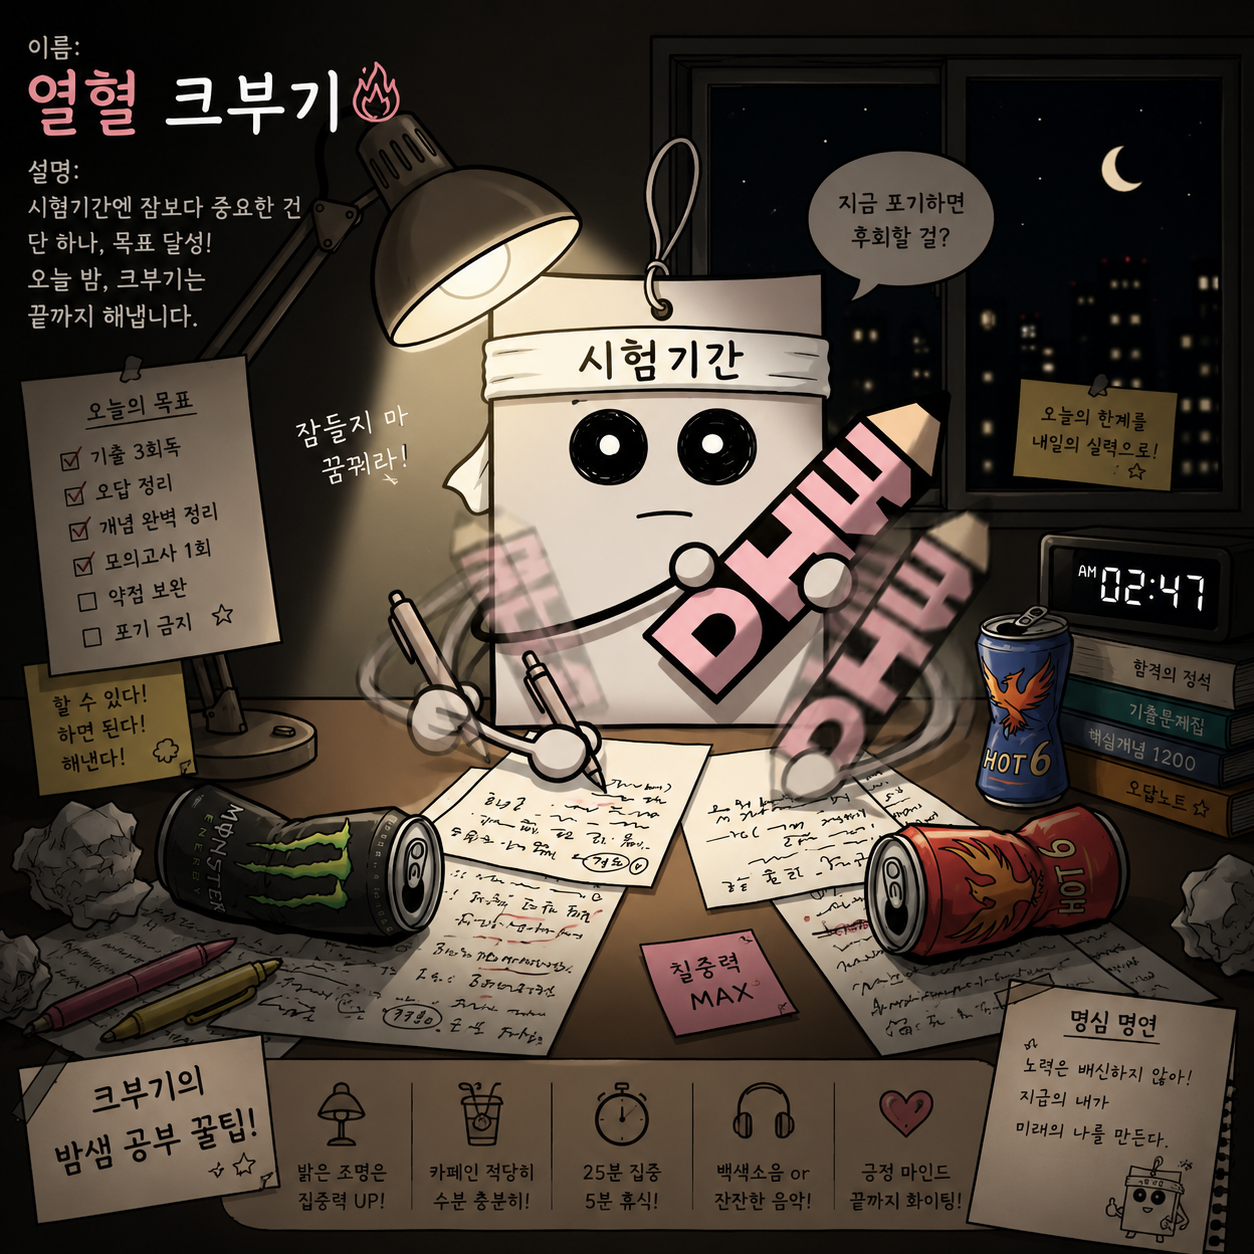
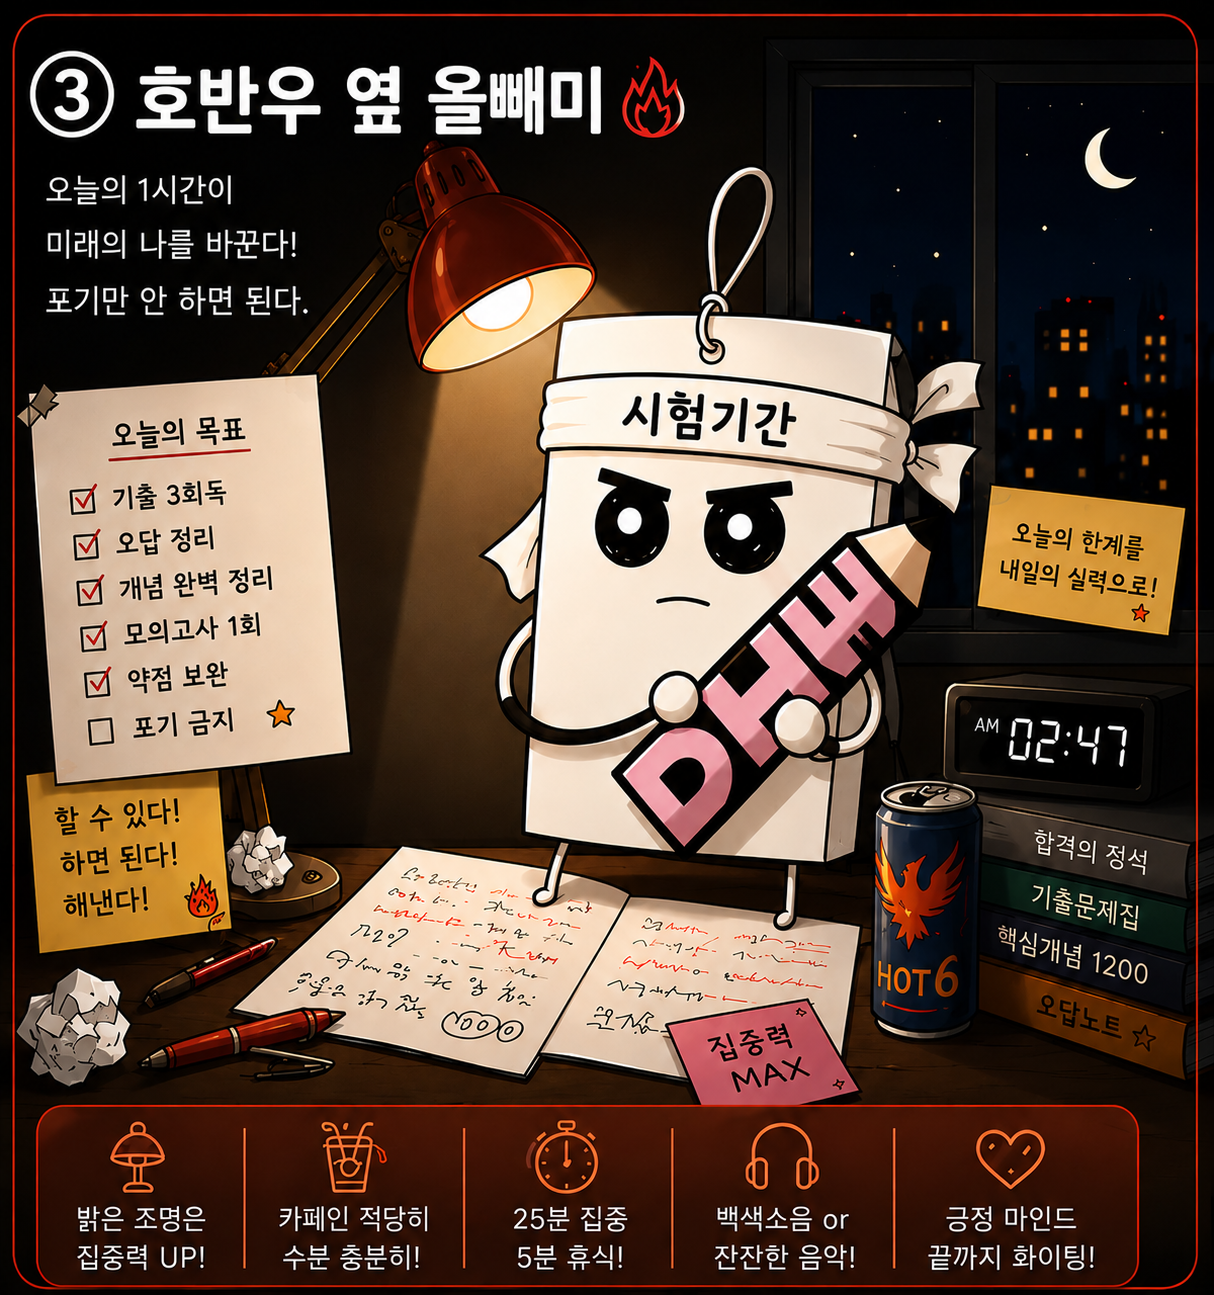
add: 결과 화면 추가

diff --git a/src/data.js b/src/data.js
@@ -3,6 +3,7 @@ export const RESULTS = {
     name: "공부 괴물", 
     desc: "도서관에 앉는 순간 주변의 시공간이 멈추는 분이시군요!\n한 번 자리를 잡으면 엉덩이를 떼지 않는 무서운 집중력의 소유자입니다. 숨소리조차 조심스러운 정적 속에서 최고의 효율을 발휘하며, 계획한 분량을 끝내기 전까지는 절대 일어나지 않는 도서관의 터줏대감입니다.", 
     emoji: "🗿",
+    img: "images/kbg_focus.png",
     place: "중앙도서관 신관 3층 제 3열람실",
     best: "ALCHEMIST",
     worst: "MARKER"
@@ -11,6 +12,7 @@ export const RESULTS = {
     name: "도서관 엠비언트 중독", 
     desc: "너무 적막한 곳보다는 적당한 백색소음이 있어야 뇌가 깨어나는 타입입니다!\n남들이 공부하는 모습이 시야에 들어와야 적당한 긴장감을 유지하며 집중력이 상승합니다. 노트북 타이핑 소리와 책장 넘기는 소리가 어우러진 오픈 테이블이 당신의 주 무대입니다.",
     emoji: "🎧",
+    img: "images/kbg_cafe.png",
     place: "중앙도서관 신관 1층 카페",    
     best: "APPLE",
     worst: "SILENT"
@@ -19,6 +21,7 @@ export const RESULTS = {
     name: "경대 보부상", 
     desc: "공부는 장비빨! 노트북, 태블릿, 독서대까지... 가방 무게가 곧 당신의 열정입니다.\n자리에 앉자마자 콘센트 위치부터 확인하고 완벽하게 세팅을 마쳐야 비로소 공부를 시작할 마음이 생깁니다. 모든 기기의 배터리가 100%일 때 가장 마음이 편안해집니다.",    
     emoji: "🍎",
+    img: "images/kbg_zimcarry.png",
     place: "중앙도서관 신관 2층 제 2열람실",    
     best: "AMBIENT",
     worst: "TOURIST"
@@ -27,6 +30,7 @@ export const RESULTS = {
     name: "스터디 협업러", 
     desc: "혼자 하는 공부보다 '함께'의 힘을 믿는 분이시군요!\n친구와 모르는 것을 서로 설명해 주거나, 스터디원들과 나란히 앉아 있을 때 시너지가 폭발합니다. 말을 하면서 지식을 정리하는 것을 선호하며, 서로를 자극하는 건강한 경쟁을 즐기는 타입입니다.",
     emoji: "🖍",
+    img: "/images/kbg_studywithkbg.png",
     place: "중앙도서관 신관 1층 스터디룸",
     best: "TOURIST",
     worst: "SILENT"
